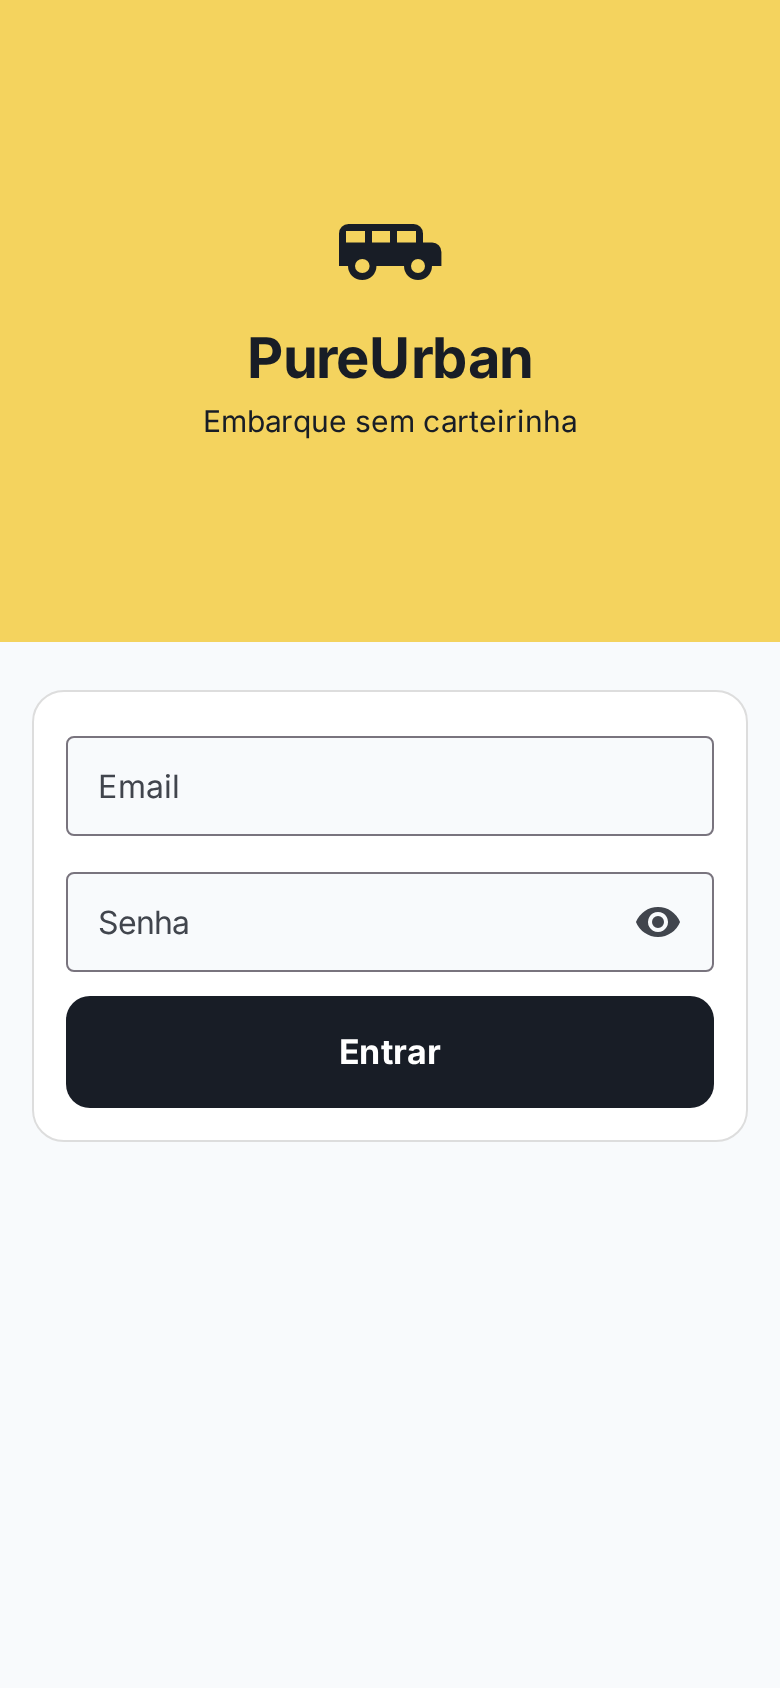
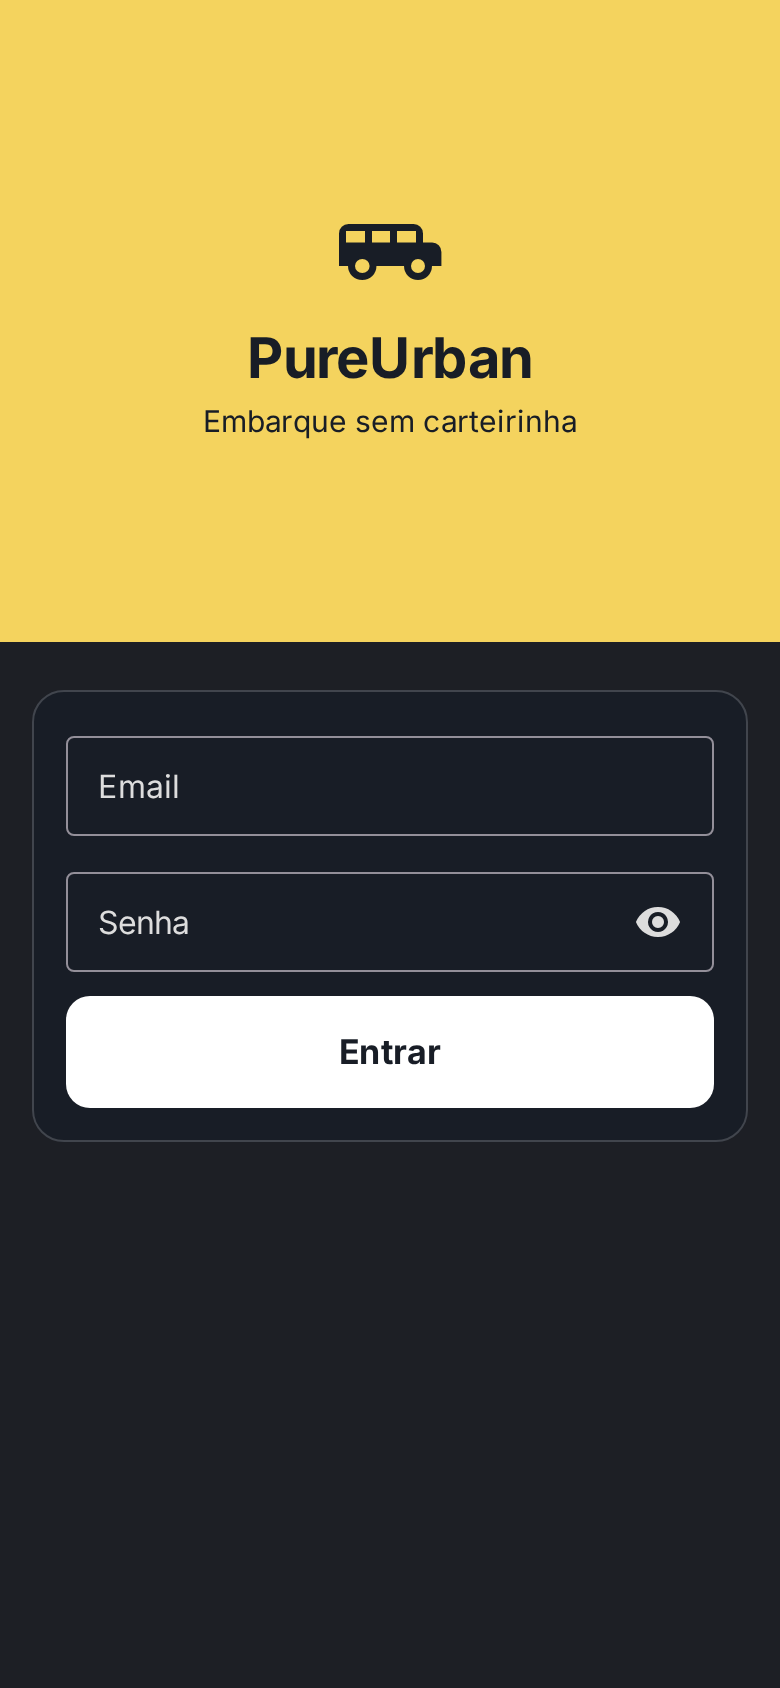
docs(ux): record the dark theme consumption and its captures (story 6.14)
Claude-Session: https://claude.ai/code/session_01Uvx71kYjf8eZo6b4iqQirx

diff --git a/_bmad-output/planning-artifacts/ux-designs/ux-pureurban-2026-09-26/antes-depois.md b/_bmad-output/planning-artifacts/ux-designs/ux-pureurban-2026-09-26/antes-depois.md
@@ -1,7 +1,8 @@
 # PureUrban Mobile — antes e depois do redesign (Épico 6)
 
 Capturas "antes" em [`audit/`](audit/) (auditoria de 26/09/2026, ver `EXPERIENCE.md` → Auditoria da
-UI atual) e "depois" em [`after/`](after/) (Story 6.12, 27/09/2026; `light-18` e `light-40` regenerados na Story 6.13). Mesmos nomes de arquivo, mesmo
+UI atual) e "depois" em [`after/`](after/) (Story 6.12, 27/09/2026; `light-18` e `light-40` regenerados na Story 6.13; `dark-*` regenerados e
+ampliados para as telas P0 na Story 6.14). Mesmos nomes de arquivo, mesmo
 usuário mock, mesma tela, mesma ação e mesmo esquema de cor do SO. Ambiente: Expo Web + MSW
 (`EXPO_PUBLIC_USE_MOCKS=1`, `EXPO_PUBLIC_E2E=1` para injetar a leitura do QR), Chromium do
 Playwright, viewport 390×844 @2x (PNG 780×1688), `pt-BR`, fuso `America/Sao_Paulo`.
@@ -16,7 +17,7 @@ Os usuários mock são `<usuário>@pureurban.com` com senha `senha123`
 EXPO_PUBLIC_USE_MOCKS=1 EXPO_PUBLIC_E2E=1 npx expo start --web --port 8081
 
 # terminal 2 — na raiz do repositório
-node mobile/scripts/capture-demo-screens.mjs            # as 27
+node mobile/scripts/capture-demo-screens.mjs            # as 35
 node mobile/scripts/capture-demo-screens.mjs light-14   # filtro por trecho do nome
 ```
 
@@ -39,9 +40,15 @@ de rodar Jest ou `tsc` (ver o gate na `plan-6-12`).
 - **`light-16`:** a segunda injeção do mesmo QR é descartada pelo scanner (mesma string lida duas
   vezes), então a tela volta ao estado ocioso, como no "antes". O "Já embarcou" âmbar só aparece
   com uma leitura nova do mesmo aluno.
-- **`light-10` = `light-11` e `dark-*` = `light-*`:** a sentinela `motorista-viagem-encerrada`
-  serve de propósito uma viagem ATIVA (o 409 só aparece ao escanear), e o app está travado no tema
-  claro (D-UX-4). Os PNGs saem idênticos byte a byte, o que comprova a trava.
+- **`light-10` = `light-11`:** a sentinela `motorista-viagem-encerrada` serve de propósito uma
+  viagem ATIVA (o 409 só aparece ao escanear).
+- **`dark-*` (Story 6.14):** no "antes" o app travava no claro (D-UX-4) e os `dark-*` saíam
+  idênticos aos `light-*`; agora o app segue o SO. Os `dark-*` do "depois" mostram o `darkPalette`
+  (canvas `#181d26`, cartões com borda `#41454d`, chips on-dark); scan e passe do QR mantêm a
+  identidade clara de propósito. As telas P0 sem captura escura no "antes" (11–14, 30–33) apontam
+  para o `light-*` da auditoria, que é o que o app mostrava com o SO em escuro.
+- **Regenerar os `light-*` na 6.14** só mexe em hora ("Iniciada às…"), no feed da câmera e no QR
+  (sessão nova): nenhuma diferença visual de tema — os PNGs claros ficaram os da 6.12/6.13.
 - **A câmera é a falsa do Chromium** (`--use-fake-device-for-media-stream`): o fundo verde com o
   "pac-man" no scan é o feed de teste, não a UI.
 
@@ -52,9 +59,9 @@ de rodar Jest ou `tsc` (ver o gate na `plan-6-12`).
 | light-01 | Login vazio | — | <img src="audit/light-01-login.png" width="180"> | <img src="after/light-01-login.png" width="180"> | Hero amarelo com marca (D-UX-1), fonte Inter (D-UX-2). |
 | light-02 | Login enviado vazio | — | <img src="audit/light-02-login-erro-vazio.png" width="180"> | <img src="after/light-02-login-erro-vazio.png" width="180"> | Erro virou Banner inline acima do botão. |
 | light-10 | Viagem com a sentinela de viagem encerrada | `motorista-viagem-encerrada` | <img src="audit/light-10-trip-encerrada-sentinela.png" width="180"> | <img src="after/light-10-trip-encerrada-sentinela.png" width="180"> | Igual a `light-11` (sentinela serve viagem ativa). Total 0/3 (mock corrigido). |
-| dark-01 | Login vazio, SO em escuro | — | <img src="audit/dark-01-login.png" width="180"> | <img src="after/dark-01-login.png" width="180"> | Idêntico a `light-01` (trava de tema claro). |
-| dark-02 | Login enviado vazio, SO em escuro | — | <img src="audit/dark-02-login-erro-vazio.png" width="180"> | <img src="after/dark-02-login-erro-vazio.png" width="180"> | Idêntico a `light-02`. |
-| dark-10 | Sentinela de viagem encerrada, SO em escuro | `motorista-viagem-encerrada` | <img src="audit/dark-10-trip-encerrada-sentinela.png" width="180"> | <img src="after/dark-10-trip-encerrada-sentinela.png" width="180"> | Idêntico a `light-10`. |
+| dark-01 | Login vazio, SO em escuro | — | <img src="audit/dark-01-login.png" width="180"> | <img src="after/dark-01-login.png" width="180"> | Hero amarelo igual; cartão e fundo no `darkPalette` (6.14). |
+| dark-02 | Login enviado vazio, SO em escuro | — | <img src="audit/dark-02-login-erro-vazio.png" width="180"> | <img src="after/dark-02-login-erro-vazio.png" width="180"> | Banner de erro no vermelho on-dark `#f2b8b5` com texto tinta (6.14). |
+| dark-10 | Sentinela de viagem encerrada, SO em escuro | `motorista-viagem-encerrada` | <img src="audit/dark-10-trip-encerrada-sentinela.png" width="180"> | <img src="after/dark-10-trip-encerrada-sentinela.png" width="180"> | Tema escuro (6.14); primária branca com texto tinta (D6). |
 | light-11 | Viagem de ida ativa | `motorista` | <img src="audit/light-11-trip-ativa.png" width="180"> | <img src="after/light-11-trip-ativa.png" width="180"> | TripCard com contador herói; ações no rodapé. Nome da rota cai no fallback "Rota atribuída" (decisão congelada da 6.5: em cold start com viagem ativa, `/routes/mine` não é chamado). |
 | light-12 | Lista de alunos | `motorista` | <img src="audit/light-12-student-list.png" width="180"> | <img src="after/light-12-student-list.png" width="180"> | Cabeçalho fixo com contador e legenda; avatar de iniciais; chips com ícone. |
 | light-13 | Scan ocioso | `motorista` | <img src="audit/light-13-scan-idle.png" width="180"> | <img src="after/light-13-scan-idle.png" width="180"> | HUD X/Y da viagem + sessão (D-UX-8); dica e linha de varredura. |
@@ -76,3 +83,11 @@ de rodar Jest ou `tsc` (ver o gate na `plan-6-12`).
 | light-34 | Após confirmar a ausência | `aluno` | <img src="audit/light-34-ausencia-registrada.png" width="180"> | <img src="after/light-34-ausencia-registrada.png" width="180"> | Falha no mock nos dois (sem o endpoint de ausência): Snackbar de erro. |
 | light-35 | QR de aluno sem rota | `aluno-sem-rota` | <img src="audit/light-35-qr-sem-rota.png" width="180"> | <img src="after/light-35-qr-sem-rota.png" width="180"> | "Nenhuma rota vinculada" como linha discreta na faixa. |
 | light-40 | Painel admin | `admin` | <img src="audit/light-40-admin.png" width="180"> | <img src="after/light-40-admin.png" width="180"> | Faixa de marca com o wordmark e StateView "Em breve" com "Sair" (6.13). O "antes" foi capturado na 6.13, antes do redesign — o admin não tinha usuário mock na auditoria. |
+| dark-11 | Viagem de ida ativa, SO em escuro | `motorista` | <img src="audit/light-11-trip-ativa.png" width="180"> | <img src="after/dark-11-trip-ativa.png" width="180"> | Chip "Em andamento" em verde on-dark; "Encerrar" no erro on-dark; primária branca. |
+| dark-12 | Lista de alunos, SO em escuro | `motorista` | <img src="audit/light-12-student-list.png" width="180"> | <img src="after/dark-12-student-list.png" width="180"> | Linhas no surface escuro; chips neutro e mostarda on-dark com tinte 12%. |
+| dark-13 | Scan ocioso, SO em escuro | `motorista` | <img src="audit/light-13-scan-idle.png" width="180"> | <img src="after/dark-13-scan-idle.png" width="180"> | Chrome de câmera igual ao claro (identidade fixa); só o header segue o esquema. |
+| dark-14 | Scan com sucesso (Ana), SO em escuro | `motorista` | <img src="audit/light-14-scan-sucesso.png" width="180"> | <img src="after/dark-14-scan-sucesso.png" width="180"> | Overlay verde idêntico ao claro (identidade fixa). |
+| dark-30 | Início do aluno, SO em escuro | `aluno` | <img src="audit/light-30-student-home.png" width="180"> | <img src="after/dark-30-student-home.png" width="180"> | Cartões com borda hairline escura; ícones e texto brancos. |
+| dark-31 | Meu QR Code, SO em escuro | `aluno` | <img src="audit/light-31-qr-code.png" width="180"> | <img src="after/dark-31-qr-code.png" width="180"> | Passe do QR idêntico ao claro (amarelo + quiet zone branca) sobre o fundo escuro. |
+| dark-32 | Acompanhar ônibus, SO em escuro | `aluno` | <img src="audit/light-32-track-bus.png" width="180"> | <img src="after/dark-32-track-bus.png" width="180"> | Erro no mock, como no claro; StateView no tema escuro. |
+| dark-33 | Dialog "Não vou voltar", SO em escuro | `aluno` | <img src="audit/light-33-dialog-nao-vou-voltar.png" width="180"> | <img src="after/dark-33-dialog-nao-vou-voltar.png" width="180"> | Dialog no surface escuro; "Avisar motorista" branco contido. |

diff --git a/_bmad-output/planning-artifacts/ux-designs/ux-pureurban-2026-09-26/EXPERIENCE.md b/_bmad-output/planning-artifacts/ux-designs/ux-pureurban-2026-09-26/EXPERIENCE.md
@@ -30,7 +30,9 @@ design: DESIGN.md
 - **Animação:** `react-native-reanimated` 4 (já instalado) + `react-native-svg` (instalado).
 - **Háptico:** `expo-haptics` (novo, exige rebuild do dev build) com fallback `Vibration` do RN.
   **[DECISÃO D-UX-3]**
-- **Tema:** claro travado (spec-1-11b) até decisão contrária. **[DECISÃO D-UX-4]**
+- **Tema:** segue o esquema do SO desde a Story 6.14 (`useColorScheme()` no `_layout`,
+  `userInterfaceStyle: "automatic"`); sem toggle no app. Scan e passe do QR mantêm a identidade
+  clara nos dois esquemas. **[DECISÃO D-UX-4]**
 - **Offline:** Tier 1 (leitura via cache TanStack/MMKV) e Tier 2 (fila SQLite de check-in) já
   existem; o redesign só dá forma visual consistente aos estados que eles produzem.
 
@@ -53,7 +55,7 @@ estado de erro no mock ([audit/light-32-track-bus.png](audit/light-32-track-bus.
 | T5 | **Estados reimplementados por tela:** `Loading`/`Centered`/`Blocked` copiados em scan, student-list e track-bus com espaçamentos e tamanhos diferentes; routes usa emoji 56px. | código |
 | T6 | **Escala tipográfica inexistente:** 9 `fontSize` distintos em 3 arquivos do motorista; 13 estilos usam `opacity` para hierarquia. | código |
 | T7 | **Nenhuma saída de conta** para motorista e aluno — só o admin tem "Sair". Na demo, trocar de motorista para aluno exige limpar o storage. | `grep logout` |
-| T8 | **Tema escuro não consumido:** com o SO em escuro, o app é idêntico ao claro (trava da 1.11b). Coerente, mas o `darkTheme` é código morto. | `dark-01-login.png`, `dark-10-…png` |
+| T8 | **Tema escuro não consumido:** com o SO em escuro, o app é idêntico ao claro (trava da 1.11b). Coerente, mas o `darkTheme` é código morto. | `dark-01-login.png`, `dark-10-…png` — **resolvido na 6.14** (ver `antes-depois.md`) |
 | T9 | **Zero háptico, zero animação.** Check-in, falha e ausência trocam de estado por corte seco. | código |
 | T10 | Ação primária no meio da tela; terço inferior vazio nas telas do motorista (fora da zona do polegar). | `light-11-trip-ativa.png` |
 
@@ -279,7 +281,7 @@ erro de mocks (dev-only, só alinhar tokens).
 ### P2
 Minhas rotas (restyle com RouteCard: nome `title`, "Centro → Campus Universitário" com ícone
 `arrow-right`, descrição `body` sem itálico) — e entrada **[D-UX-6]**; Painel admin (StateView
-"Em breve" com marca); consumo do tema escuro **[D-UX-4]**; brilho máximo automático no QR
+"Em breve" com marca); consumo do tema escuro **[D-UX-4]** (entregue na 6.14); brilho máximo automático no QR
 (`expo-brightness`, nativo) **[D-UX-10]**; bip de scan.
 
 ## Key Flows
@@ -365,7 +367,7 @@ Decisões tomadas pelo usuário (D-UX-1 a 5, 7 e 11) e pelo PM (demais), antes d
 | D-UX-1 | **Aprovada** — amarelo-escolar full-bleed |
 | D-UX-2 | **Aprovada** — Inter |
 | D-UX-3 | **Aprovada** — `expo-haptics`; todas as deps nativas numa única rebuild, na story de fundação |
-| D-UX-4 | **Aprovada** — só tema claro até a defesa; tema escuro vira story opcional P2 |
+| D-UX-4 | **Aprovada** — só tema claro até a defesa; tema escuro vira story opcional P2. **Entregue na Story 6.14:** o app segue o SO, com variantes on-dark de status/link/info (tokens já registrados + `errorOnDark` `#f2b8b5`) |
 | D-UX-5 | **Aprovada** — "Sair" para motorista e aluno (exceção de fluxo) |
 | D-UX-6 | **Recusada** — "Minhas rotas" continua sem entrada; só o restyle P2 fica no épico |
 | D-UX-7 | **Aprovada** — ConfirmDialog em "Encerrar viagem" (exceção de fluxo; atualiza o e2e) |

diff --git a/_bmad-output/planning-artifacts/ux-designs/ux-pureurban-2026-09-26/DESIGN.md b/_bmad-output/planning-artifacts/ux-designs/ux-pureurban-2026-09-26/DESIGN.md
@@ -41,7 +41,7 @@ colors:
   # Câmera (allowlist da guarda de paleta — não são cores de UI)
   camera-black: '#000000'
   qr-quiet-zone: '#ffffff'
-  # Mapeamento escuro (D6 da 1.11 — documentado, NÃO consumido até decisão D-UX-4)
+  # Mapeamento escuro (D6 da 1.11 — consumido desde a Story 6.14, D-UX-4)
   canvas-dark: '#181d26'
   surface-dark: '#1d1f25'
   ink-dark: '#ffffff'
@@ -217,7 +217,8 @@ components:
 > Proposta autônoma da UX (Sally), 26/09/2026. Tudo o que depende de aprovação está marcado
 > **[DECISÃO D-UX-n]** e consolidado em `EXPERIENCE.md` → *Decisões que precisam de aprovação*.
 > Este documento vence qualquer mock ou captura em caso de conflito. As capturas "antes" estão em
-> [`audit/`](audit/) — prefixo `light-` (claro) e `dark-` (SO em escuro; o app trava em claro).
+> [`audit/`](audit/) — prefixo `light-` (claro) e `dark-` (SO em escuro; na auditoria o app travava em claro — o
+> consumo do escuro entrou na Story 6.14, ver `after/dark-*`).
 
 ## Brand & Style
 
@@ -272,9 +273,15 @@ introduzido; os tintes (`*-tint`) são o equivalente opaco sobre branco do `with
 - **Brand yellow `#f4d35e`** — só full-bleed, sempre com texto `{colors.ink}` (11.5:1). Nunca em
   texto, borda, ícone ou chip. Nunca na tela do motorista em operação (compete com o âmbar de status).
 - **Câmera** — preto puro e branco da quiet zone seguem na allowlist da guarda; não são cores de UI.
-- **Escuro** — o mapeamento D6 fica documentado (`*-dark`), mas o app segue travado em claro
-  (spec-1-11b). Recomendação: **manter a trava até a defesa** — luz do sol favorece o claro, e o
-  consumo real exige variantes on-dark de status que ainda não existem. **[DECISÃO D-UX-4]**
+- **Escuro** — desde a Story 6.14 o app segue o esquema do SO (sem toggle próprio) e consome o
+  mapeamento D6 (`*-dark`). Os papéis de status/link/info ganharam variantes on-dark, todas
+  ≥ 4.5:1 sobre o canvas e o surface escuros, reusando tokens registrados: embarcou/sucesso =
+  `successBorder` `#39bf45`, info/link = `infoBorder` `#458fff`, não vai voltar = mostarda
+  `#d9a441` (7.5:1 — no escuro o âmbar sai do piso 3:1 da D3). O único hex novo é o erro on-dark
+  `#f2b8b5` (baseline MD3 dark), porque nenhum token registrado é um vermelho legível no escuro.
+  Tintes de chip = 12% da variante on-dark. Chrome de câmera (scan) e passe do QR não mudam com
+  o esquema: sobre o feed, um overlay branco à noite ofuscaria, e o QR precisa da quiet zone
+  branca. **[DECISÃO D-UX-4 — entregue na 6.14]**
 
 ## Typography
 
